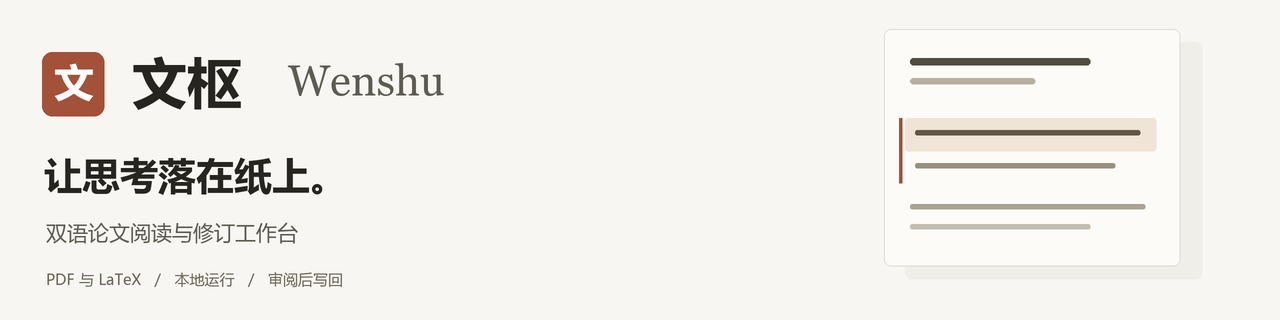
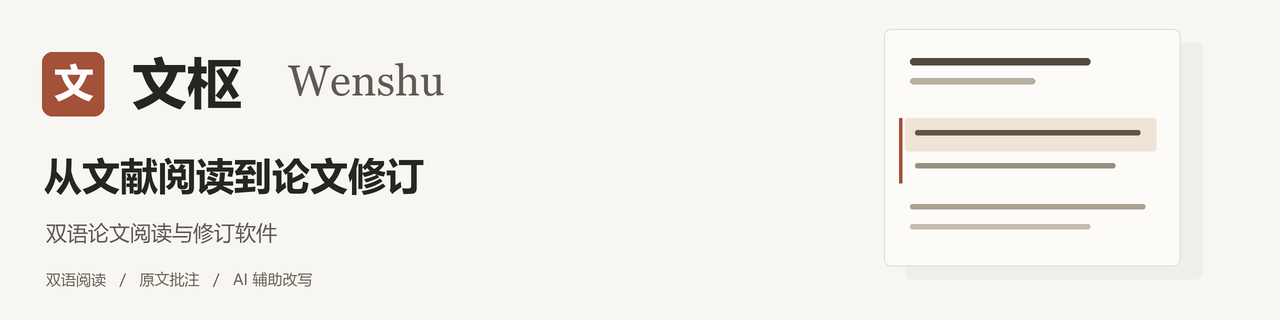
docs: standardize product messaging and separate developer guide

Changed region(s): [[0.0312, 0.4688, 0.3438, 0.625], [0.0312, 0.8438, 0.2812, 0.9062], [0.1875, 0.6875, 0.25, 0.7812]]

diff --git a/README.md b/README.md
@@ -1,162 +1,117 @@
 <p align="center">
-  <img src="docs/assets/cover.png" alt="文枢 Wenshu：让思考落在纸上。双语论文阅读与修订工作台" width="100%">
+  <img src="docs/assets/cover.png" alt="文枢 Wenshu · 双语论文阅读与修订软件" width="100%">
 </p>
 
 <p align="center">
-  <strong>把原文、译文、批注与改写，放在同一张工作台上。</strong>
+  <strong>中英对照阅读、原文批注、AI 辅助改写与 LaTeX 编辑。</strong><br>
+  <sub>适用于文献精读、学术写作与论文修订。</sub>
 </p>
 
 <p align="center">
   <a href="https://github.com/feedy-hub/wenshu/releases/latest"><strong>下载 Windows 版</strong></a>
   &nbsp; · &nbsp;
-  <a href="#快速开始">快速开始</a>
+  <a href="#核心功能">核心功能</a>
   &nbsp; · &nbsp;
-  <a href="#从阅读到修订">使用流程</a>
+  <a href="#安装与使用">安装与使用</a>
   &nbsp; · &nbsp;
-  <a href="#从源码运行">源码运行</a>
+  <a href="docs/DEVELOPMENT.md">开发文档</a>
 </p>
 
 ---
 
-文枢是一个本地运行的双语论文工作台。导入 PDF 或 LaTeX 项目后，你可以对照阅读、选句批注、按要求生成改写建议，再核对差异并写入源稿副本。
+**文枢 Wenshu** 是一款本地运行的双语论文阅读与修订软件。通过同一界面完成原文与译文对照、批注管理和修改建议审阅；导入 LaTeX 项目后，还可编辑源文件并编译预览。
 
-阅读时保留原文位置，修改时保留审阅步骤，让每一次判断都有落点。
+面向需要阅读英文文献、整理修改意见和修订论文的研究人员、教师与学生。
 
-## 工作台一览
+## 产品界面
 
-![文枢的双语阅读与批注界面，展示内置演示论文及选句批注](docs/assets/workspace.jpg)
+![文枢双语阅读与批注界面](docs/assets/workspace.jpg)
 
-<p align="center"><sub>左侧切换论文与章节，中间对照阅读，右侧记录批注和审阅建议。截图使用内置样本，中文为人工演示译文。</sub></p>
+<p align="center"><sub>左侧导航，中间阅读，右侧批注与修订。截图为内置示例论文，中文译文已预先提供。</sub></p>
 
-## 你可以用它做什么
+## 核心功能
 
-| 能力 | 在工作台中的用法 |
+| 功能 | 产品说明 |
 | :--- | :--- |
-| **中英对照阅读** | 英文在上、中文在下，可选择逐句或逐段对照，也可进入专注阅读。 |
-| **原页随时核对** | 结合原 PDF 检查图表、公式和正文位置，保留原始版面的参考。 |
-| **选句与整段批注** | 将修改要求绑定到具体原文范围，点击批注即可返回对应位置。 |
-| **有上下文的改写** | 结合选区、批注和论文上下文生成建议，或填写人工草稿查看差异。 |
-| **逐项审阅与批量处理** | 对照修改前后内容，检查数字和引用；多条批注可统一生成并审阅。 |
-| **LaTeX 修订闭环** | 编辑本机源稿副本、写入可定位的修改，再编译为新的 PDF。 |
+| **双语对照阅读** | 支持逐句、逐段中英对照，结合章节导航和专注阅读模式，方便文献精读。 |
+| **PDF 原文对照** | 查看原始 PDF 页面，核对图表、公式与正文排版。 |
+| **原文批注** | 针对句子或段落记录修改意见，通过批注返回对应原文。 |
+| **AI 辅助改写** | 根据选中文本、批注和论文上下文生成修改建议，逐项查看修改前后的差异。 |
+| **批量修订** | 根据多条批注批量生成建议，支持任务暂停、继续及逐项审阅。 |
+| **LaTeX 编辑与编译** | 编辑项目副本中的源文件；审阅通过且能准确定位的修改可写入副本，再编译为 PDF。 |
 
-工作台采用暖灰纸张底色、深色正文和陶土色标记，提供更大的界面文字与清楚的阅读层次。
+界面采用浅暖灰背景、深色正文与陶土色重点标记，通过分栏布局区分阅读内容和编辑操作。
 
-## 快速开始
+## 安装与使用
 
-### Windows：下载后直接打开
+### Windows 版
 
-1. 前往 **[最新版本下载页](https://github.com/feedy-hub/wenshu/releases/latest)**，选择 `wenshu-windows-*.zip`。
-2. 完整解压后，双击 **`文枢.exe`**。
-3. 浏览器会打开 **<http://127.0.0.1:18761/>**。
-4. 点击 **“先用示例体验”**，或导入自己的论文。
+1. 打开 **[版本下载页](https://github.com/feedy-hub/wenshu/releases/latest)**，下载 `wenshu-windows-*.zip`。
+2. 完整解压后，双击 **`文枢.exe`** 启动。
+3. 浏览器自动打开 **<http://127.0.0.1:18761/>**，导入论文即可使用。
 
-Windows 程序已包含 Python 运行环境。只阅读 PDF、批注或使用 AI 服务，无需安装 LaTeX；编译论文源稿时，需要额外安装 TeX Live 或 TinyTeX，并将编译器加入 PATH。
+Windows 版已包含 Python 运行环境。首次使用可选择“先用示例体验”。编译 LaTeX 项目需另行安装 TeX Live 或 TinyTeX，并将编译器加入 PATH；PDF 阅读和批注不需要 LaTeX 环境。
 
 <details>
-<summary><strong>查看首次打开的界面</strong></summary>
+<summary><strong>查看导入界面</strong></summary>
 
-![文枢首页：导入论文项目、导入 PDF 和示例体验入口](docs/assets/welcome.jpg)
+![文枢论文导入界面](docs/assets/welcome.jpg)
 
 </details>
 
-### 选择合适的导入方式
+### 支持的文件
 
-| 你手上的文件 | 使用哪个入口 | 导入后可以做什么 |
+| 文件格式 | 导入入口 | 支持的操作 |
 | :--- | :--- | :--- |
-| 一篇 PDF | **PDF 文档 / 导入 PDF** | 阅读、翻译、批注，生成及导出改写建议。 |
-| 单个 `.tex` 或项目 `.zip` | **LaTeX 项目 / 导入论文项目** | 识别主文件，编译项目副本，并进行源稿修订。 |
-| 包含主稿、图片和参考文献的文件夹 | **项目文件夹** | 保留项目目录结构，供编译和源稿定位使用。 |
+| PDF | **PDF 文档 / 导入 PDF** | 阅读、翻译、批注，生成及导出修改建议。 |
+| `.tex` 文件或 LaTeX 项目 ZIP | **LaTeX 项目 / 导入论文项目** | 识别主文件、编译项目副本、编辑及修订源文件。 |
+| LaTeX 项目文件夹 | **项目文件夹** | 导入主文件、图片、参考文献和模板，保留项目目录结构。 |
 
-单个 `.tex` 不会自动带入同目录的图片、参考文献或模板。有这些依赖时，建议导入完整文件夹或项目 ZIP。目录选择需要支持文件夹上传的浏览器，例如 Edge 或 Chrome。
+包含图片、参考文献或模板的项目，请导入完整文件夹或 ZIP。单独导入 `.tex` 文件不会自动导入同目录中的其他文件。文件夹导入建议使用 Edge 或 Chrome。
 
-## 从阅读到修订
+## 使用流程
 
-1. **读到问题，选中原文。** 点击一句英文；需要完整段落时，使用“选中整段”。
-2. **留下判断，保存批注。** 写下压缩、补充或澄清的要求，批注会绑定到当前原文范围。
-3. **生成建议，核对差异。** 使用“改写选区”，或按多条批注批量生成；逐项检查措辞、数字、术语和引用。
-4. **确认修改，写入副本。** 已关联 LaTeX 且能唯一定位的建议，可以在审阅后写入；重新编译查看结果，也可直接编辑源稿副本。
+1. **导入论文**：选择 PDF 或 LaTeX 项目，在阅读区查看正文。
+2. **记录批注**：选择句子或段落，填写并保存修改要求。
+3. **审阅建议**：生成修改建议，核对措辞、术语、数字与引用。
+4. **应用修改**：导出建议，或将通过审阅且能准确定位的修改写入 LaTeX 项目副本，重新编译查看结果。
 
-只有 PDF 时，可以导出建议供人工修改。自动写回需要关联源稿，且仅处理当前版本中能够唯一匹配的文本；复杂宏、公式或重复内容可能需要人工编辑。
+PDF 文件支持阅读与修改建议导出。修改源文件需要关联 LaTeX 项目；无法唯一匹配的内容需手动编辑。
 
-## 接入你自己的 AI 服务
+## AI 服务与数据管理
 
-打开左侧 **“AI 服务设置”**，填写 API 地址、模型名称和密钥。文枢支持兼容 **OpenAI Chat Completions** 的接口。
+### AI 服务配置
 
-- **没有 API 也能开始：** 阅读、批注、演示译文、人工草稿差异预览，以及已关联 LaTeX 的本地编辑与编译均可使用。
-- **需要生成时再调用：** 翻译及 AI 改写会将相应正文、批注和所选上下文发送到你配置的服务。
-- **密钥按运行会话保存：** API 地址和模型名保存在本机；密钥仅在当前服务进程内存中，重启后需要重新填写。
+在 **“AI 服务设置”** 中填写 API 地址、模型名称与密钥。文枢支持兼容 **OpenAI Chat Completions** 的服务接口。
 
-AI 输出作为待审阅的建议保存。批量任务支持停止和续跑，已经完成的建议会保留。
+- **本地功能**：阅读、批注、手动编辑及差异预览无需配置 AI 服务。示例论文提供预设译文；LaTeX 编译需具备本机编译环境。
+- **AI 功能**：翻译与 AI 改写需要配置服务，并将相关正文、批注及所选上下文发送至该服务。
+- **密钥管理**：API 地址和模型名称保存在本机；密钥仅保存在当前程序内存中，重启后需重新填写。
 
-## 文件保存在哪里
+生成的内容以修改建议形式保存，供用户审阅后使用。
 
-文枢在本机保存论文、译文、批注、改写建议和源稿副本。Windows 桌面版默认使用可执行文件旁的 **`.data/`** 目录；浏览器关闭后，本地服务仍会继续运行，重复启动程序会复用现有服务。
+### 本地存储与备份
 
-备份或迁移工作记录时，请保留 `.data/`。GitHub 源码与下载包不包含个人工作记录。
+论文、译文、批注、修改建议和项目副本保存在本机。Windows 版默认使用 `文枢.exe` 同目录下的 **`.data/`** 文件夹，备份或迁移时请一并保留。
 
-## 从源码运行
+关闭浏览器不会退出本地服务；再次启动文枢时会使用已运行的服务。仓库和发行包不包含个人工作记录。
 
-需要 **Python 3.10+**。下载源码，或克隆仓库后安装依赖：
+## 兼容性与使用说明
 
-```sh
-git clone https://github.com/feedy-hub/wenshu.git
-cd wenshu
-python -m venv .venv
-```
-
-**Windows**
-
-```powershell
-.\.venv\Scripts\python.exe -m pip install -r requirements.txt
-.\.venv\Scripts\python.exe launch.py
-```
-
-**macOS / Linux**
-
-```sh
-.venv/bin/python -m pip install -r requirements.txt
-.venv/bin/python launch.py
-```
-
-首次使用可先体验内置示例。`samples/` 还提供双栏 PDF、公式和 LaTeX 写作样本。
-
-<details>
-<summary><strong>开发检查、项目结构与桌面打包</strong></summary>
-
-安装项目依赖后，使用环境中的 Python 运行测试；正文布局检查另需 Node.js。
-
-```sh
-python -m unittest discover -s tests -v
-node tests/test_artifact_layout.cjs
-node tests/test_reference_layout.cjs
-```
-
-| 目录 / 模块 | 职责 |
+| 项目 | 说明 |
 | :--- | :--- |
-| `static/` | 阅读界面、批注、上下文和源稿编辑交互 |
-| `app.py` | 本地 HTTP 服务、数据存储与 API 请求 |
-| `parser.py` · `math_layout.py` | PDF 阅读顺序、图表和公式处理 |
-| `writing.py` · `source_mapping.py` | 文本锚点、改写差异与源稿定位 |
-| `latex_project.py` | 项目副本、编译、历史版本与写回 |
-| `context_manager.py` · `batch_rewrite.py` | 论文上下文及批注批量改写 |
-| `samples/` · `tests/` | 演示材料和回归测试 |
+| **操作系统** | 提供 Windows 应用下载。macOS 和 Linux 可按开发文档从源码运行；暂未提供经过运行验证的 macOS 独立应用。 |
+| **PDF 文本识别** | 需要可提取的文本层，暂不支持扫描文件的 OCR 识别。复杂版式应结合原 PDF 核对。 |
+| **公式显示** | 公式可通过图片显示，无法直接转换为可编辑的 LaTeX 代码。 |
+| **批注版本** | 批注与对应 PDF 版本关联；重新编译后，不会自动迁移到新版本。 |
+| **源文件修订** | 仅自动处理能够唯一匹配的文本。复杂宏、公式和重复内容可能需要手动编辑。 |
 
-Windows 打包运行 `packaging/build_windows.ps1`；macOS 打包需在 Mac 上运行 `packaging/build_macos.sh`。打包资源不包含本机 `.data/`。当前 Releases 提供 Windows 程序与源码包。
+## 开发与第三方资源
 
-</details>
+源码运行、测试和桌面打包说明见 **[开发文档](docs/DEVELOPMENT.md)**。
 
-## 当前能力边界
-
-- **扫描 PDF 暂无 OCR。** 需要可提取的文本层，复杂版式请结合原 PDF 核对。
-- **公式以保真显示为主。** 公式图片不是可直接编辑的 LaTeX 源代码。
-- **批注跟随 PDF 版本。** 重新编译后，旧版本上的批注不会自动迁移到新版本。
-- **自动定位保持保守。** 无法唯一匹配的范围不自动写回，仍可人工编辑或导出建议。
-- **macOS 构建需在对应平台完成。** 当前没有经过本机运行验证的 macOS 独立程序，应用未签名。
-
-## 第三方资源
-
-前端内置 KaTeX，无需从 CDN 加载公式资源。其许可证见 [`static/vendor/katex/LICENSE`](static/vendor/katex/LICENSE)；其他依赖按各自许可证分发。
+文枢内置 KaTeX 公式资源，其许可证见 [`static/vendor/katex/LICENSE`](static/vendor/katex/LICENSE)。其他依赖遵循各自许可证。
 
 ---
 
-<p align="center"><strong>文枢 · 让思考落在纸上。</strong><br><sub>读懂一段，留下判断，再把修改落回原稿。</sub></p>
+<p align="center"><strong>文枢 Wenshu</strong><br><sub>双语论文阅读与修订软件</sub></p>

diff --git a/docs/DEVELOPMENT.md b/docs/DEVELOPMENT.md
@@ -1,0 +1,67 @@
+# 开发文档
+
+[返回产品介绍](../README.md)
+
+本文介绍文枢的源码运行、测试与桌面应用打包方式。Windows 应用下载及使用说明见 [README](../README.md#安装与使用)。
+
+## 环境要求
+
+- Python 3.10 或更高版本。
+- Node.js：仅用于正文布局测试。
+- TeX Live 或 TinyTeX：仅用于 LaTeX 项目编译，编译器需加入 PATH。
+
+## 从源码运行
+
+下载源码包，或克隆仓库后创建虚拟环境：
+
+```sh
+git clone https://github.com/feedy-hub/wenshu.git
+cd wenshu
+python -m venv .venv
+```
+
+### Windows
+
+```powershell
+.\.venv\Scripts\python.exe -m pip install -r requirements.txt
+.\.venv\Scripts\python.exe launch.py
+```
+
+### macOS / Linux
+
+```sh
+.venv/bin/python -m pip install -r requirements.txt
+.venv/bin/python launch.py
+```
+
+浏览器打开 <http://127.0.0.1:18761/>。可先使用内置示例；`samples/` 提供双栏 PDF、公式及 LaTeX 项目样本。
+
+## 测试
+
+在已安装项目依赖的 Python 环境中运行：
+
+```sh
+python -m unittest discover -s tests -v
+node tests/test_artifact_layout.cjs
+node tests/test_reference_layout.cjs
+```
+
+未激活虚拟环境时，请使用 `.venv` 中对应的 Python 可执行文件替代 `python`。
+
+## 项目结构
+
+| 目录 / 模块 | 职责 |
+| :--- | :--- |
+| `static/` | 阅读界面、批注、上下文设置和源文件编辑交互 |
+| `app.py` | 本地 HTTP 服务、数据存储与 API 请求 |
+| `parser.py` · `math_layout.py` | PDF 阅读顺序、图表和公式处理 |
+| `writing.py` · `source_mapping.py` | 文本定位、修改差异与源文件匹配 |
+| `latex_project.py` | 项目副本、编译、历史版本与修改写入 |
+| `context_manager.py` · `batch_rewrite.py` | 论文上下文与批量改写任务 |
+| `samples/` · `tests/` | 演示材料与回归测试 |
+
+## 桌面应用打包
+
+Windows 使用 `packaging/build_windows.ps1`，macOS 需在 Mac 上运行 `packaging/build_macos.sh`。应用尚未签名，macOS 构建暂未经过运行验证。
+
+打包资源不包含本机 `.data/` 目录。[版本下载页](https://github.com/feedy-hub/wenshu/releases/latest) 提供 Windows 应用和源码包。
